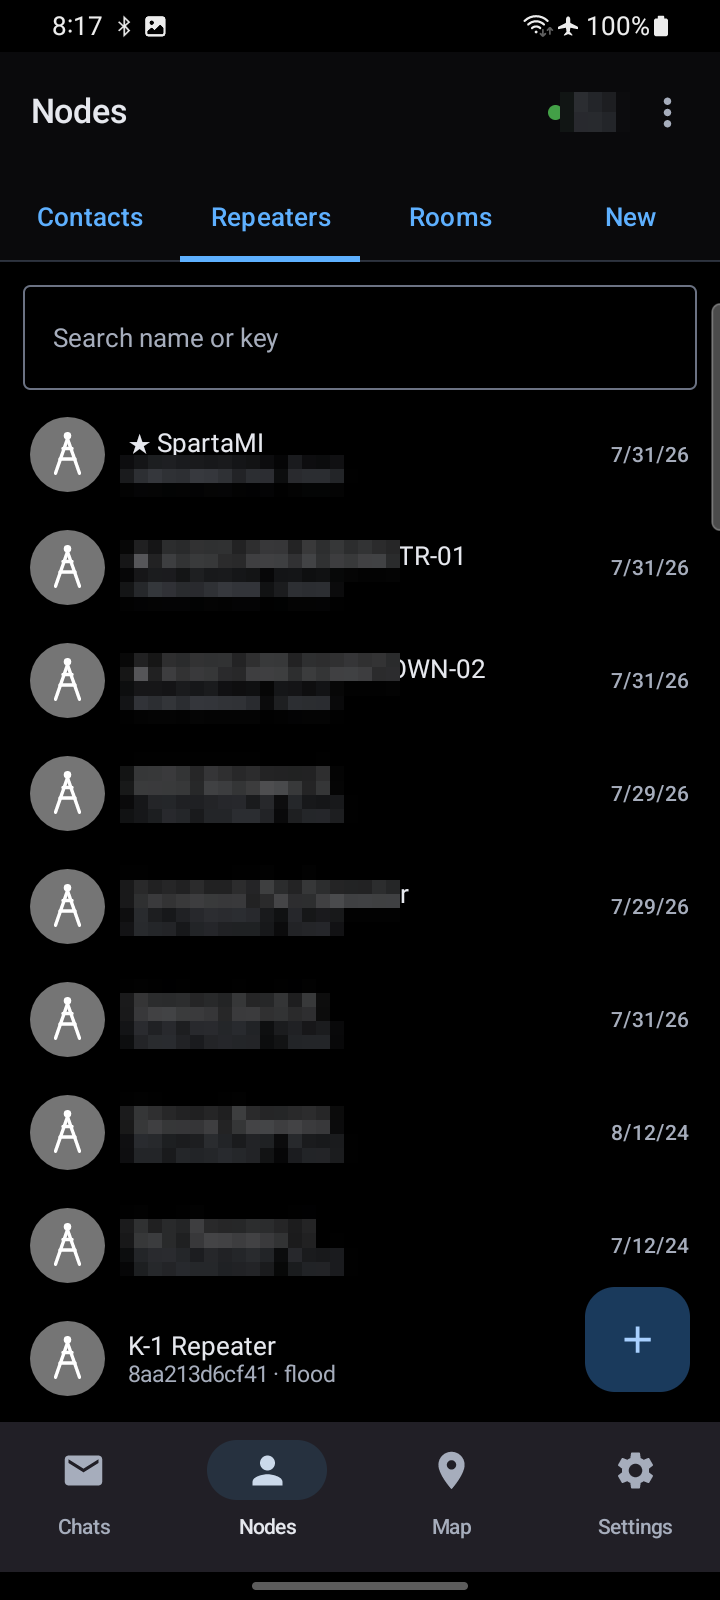
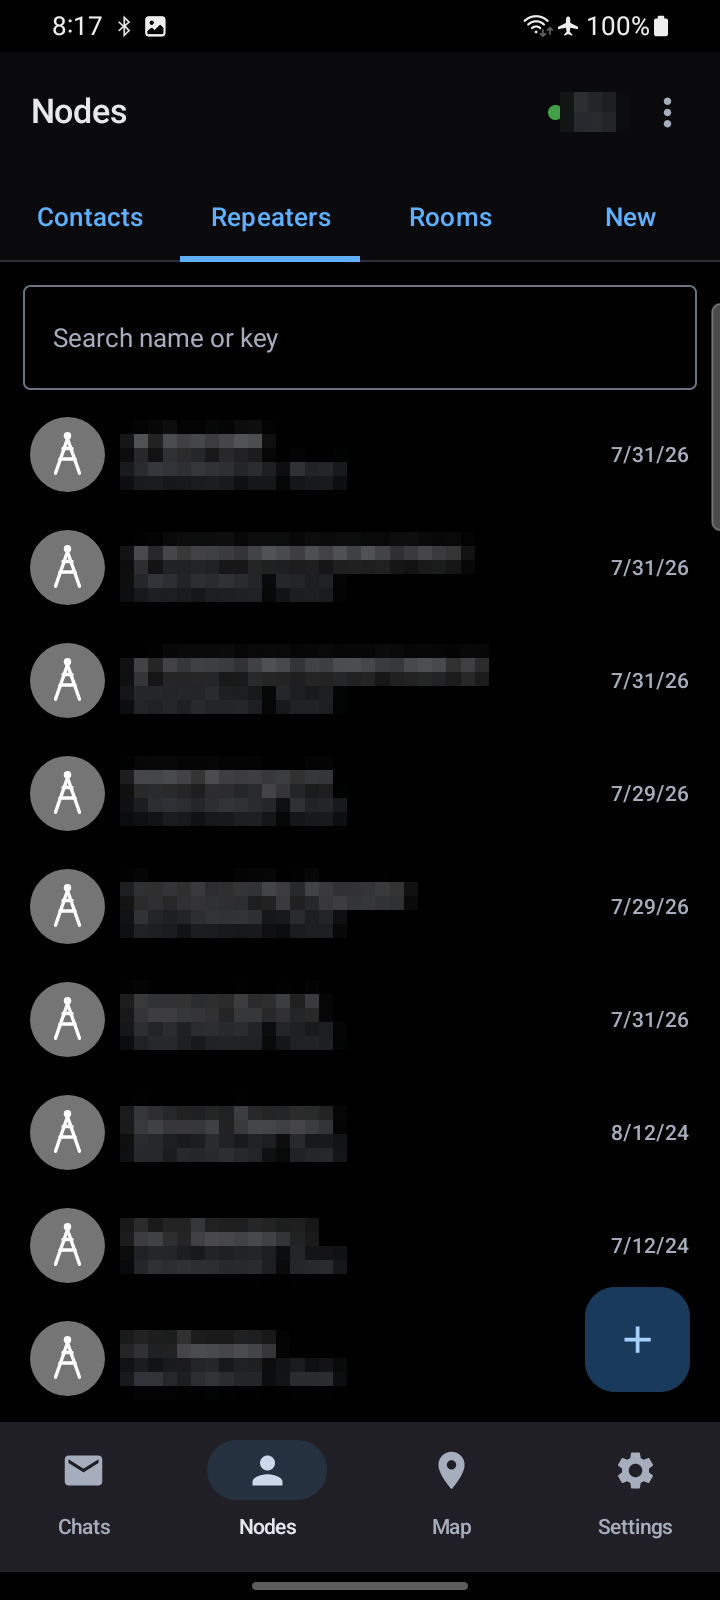
Screenshots: redact repeater names too (SpartaMI was still legible)
The Repeaters list kept node NAMES in the clear on the theory that
repeaters are public infrastructure — but some of these repeaters are
the user's own, so the names identify them. Both name and key lines are
now pixelated on that screen, and the regions extend to the last
visible row (the bottom entry was falling outside the old box on both
the Repeaters list and the node-detail background).

Claude-Session: https://claude.ai/code/session_019t3qgVbtkrcibY7eACURjk

diff --git a/tools/redact_screenshots.py b/tools/redact_screenshots.py
@@ -27,8 +27,9 @@ REGIONS = {
     "01-chats.png": [NODE_NAME, (120, 195, 520, 630)],
     # Contact names and public keys.
     "02-nodes.png": [NODE_NAME, (120, 420, 560, 1280)],
-    # Repeater public keys (the repeater NAMES are public infrastructure).
-    "03-repeaters.png": [NODE_NAME, (120, 455, 400, 1290)],
+    # Repeater names AND keys: some repeaters on this mesh are the
+    # user's own, so names are not safe to leave in the clear either.
+    "03-repeaters.png": [NODE_NAME, (120, 420, 560, 1400)],
     # Map: only this node's name; the view shows public repeaters.
     "04-map.png": [NODE_NAME],
     # Connected-node name and the saved node's BLE MAC address.
@@ -38,7 +39,7 @@ REGIONS = {
         NODE_NAME,
         # Full-width here: the list is partly occluded by the sheet, and
         # half-redacted names read as sloppy rather than deliberate.
-        (120, 420, 560, 800),
+        (120, 420, 560, 810),
         (40, 1030, 690, 1095),   # public key (two lines)
         (40, 1140, 400, 1180),   # lat/lon
     ],
